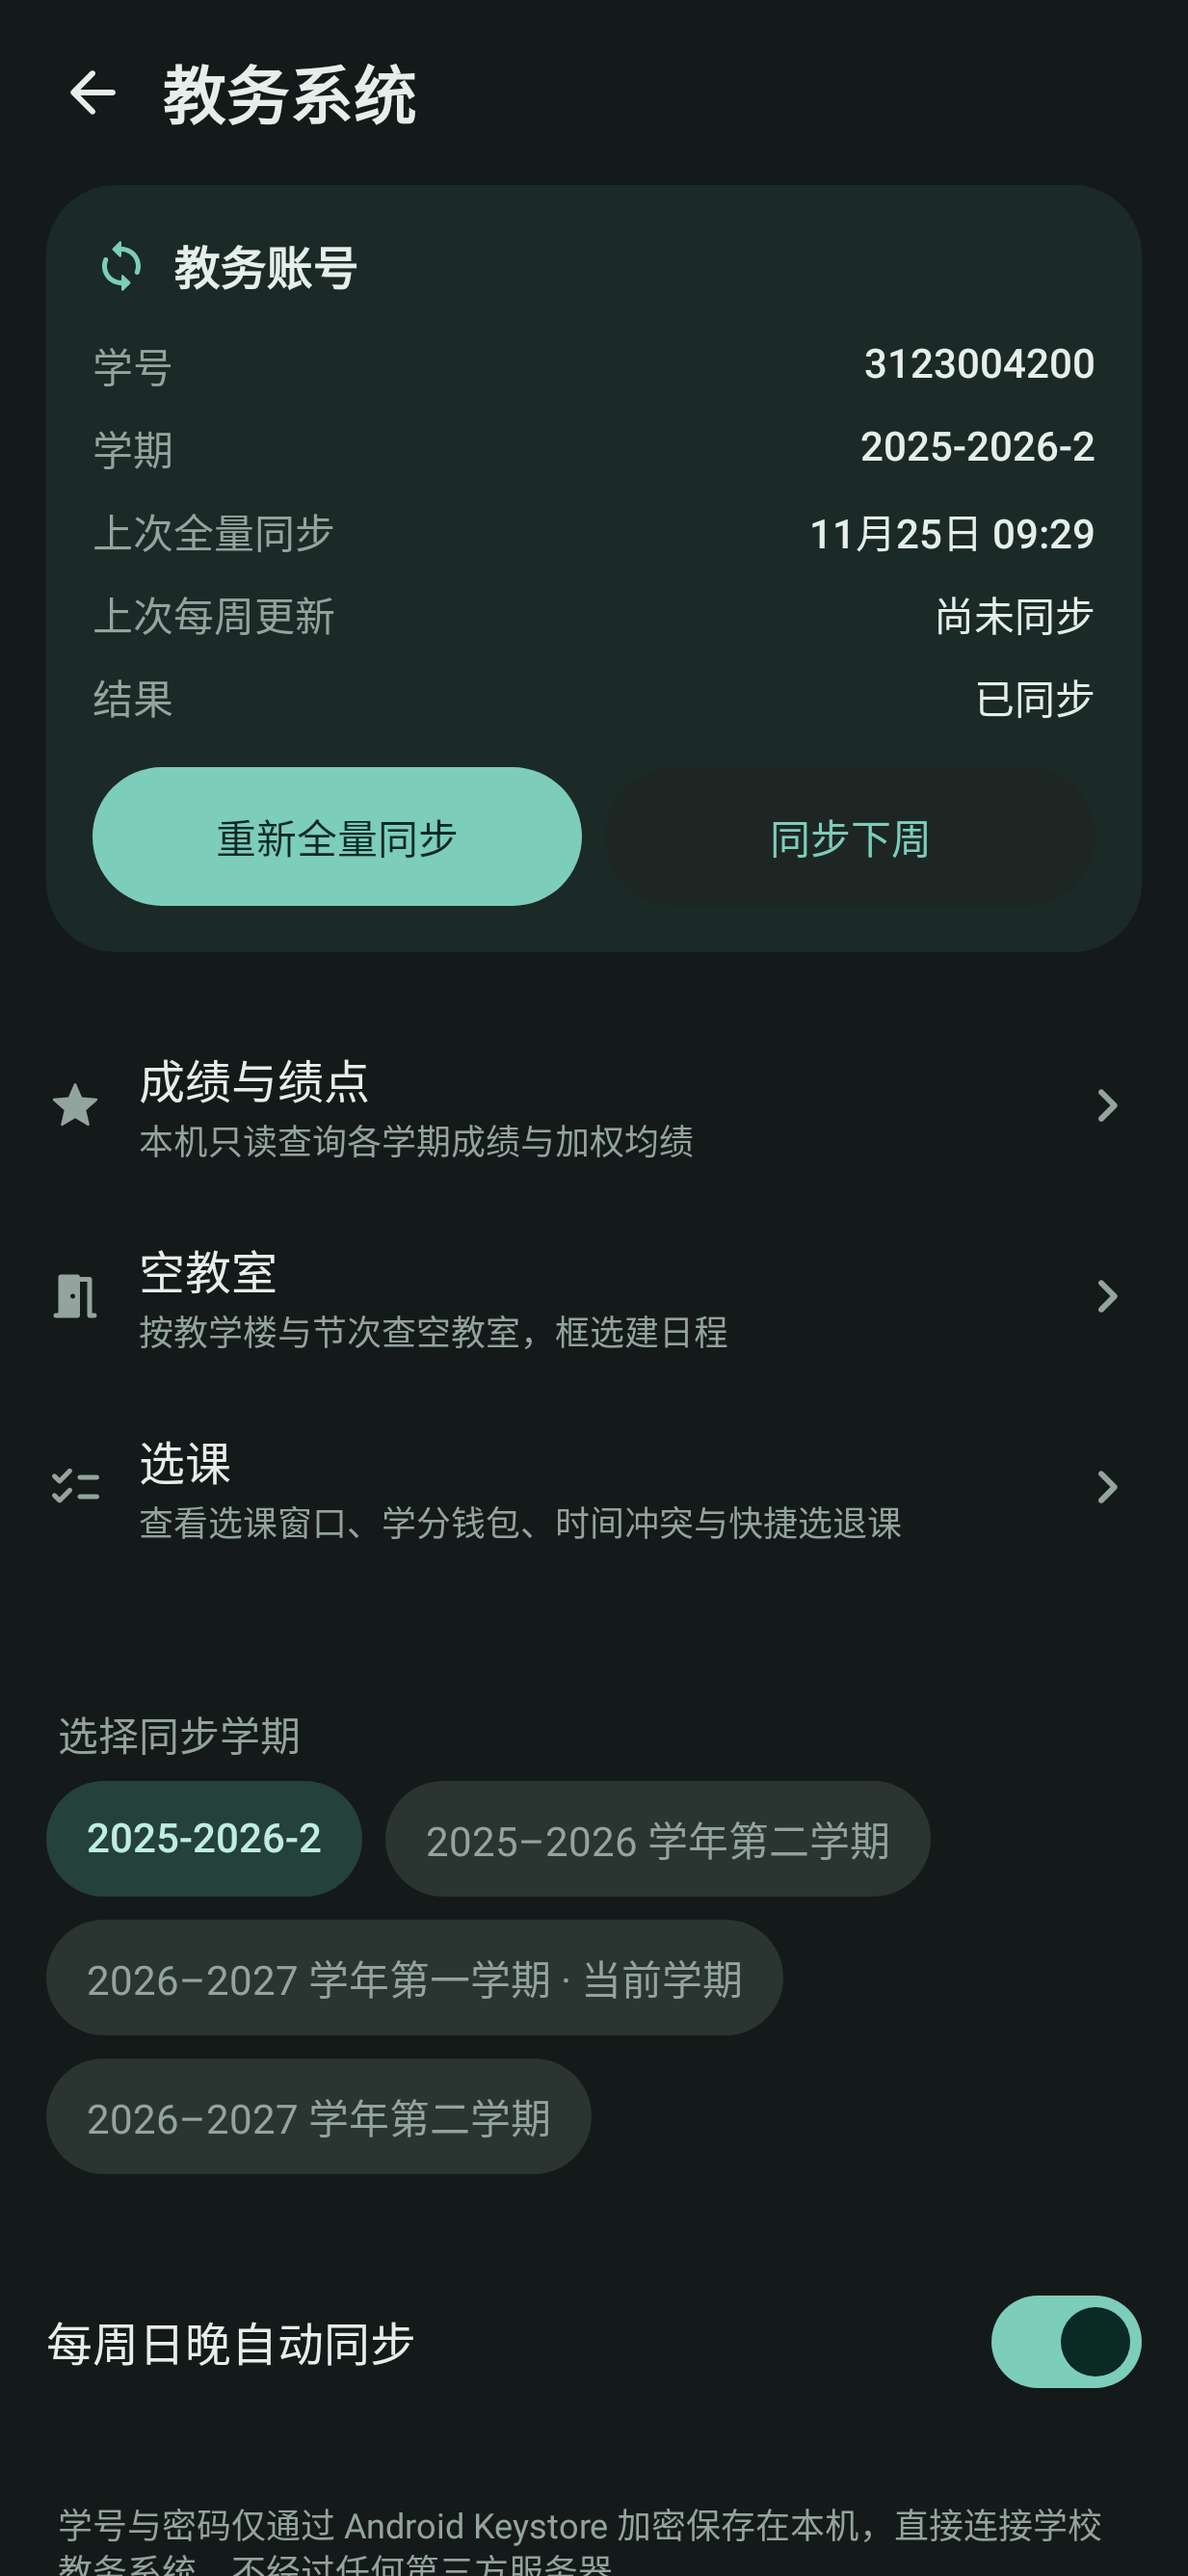
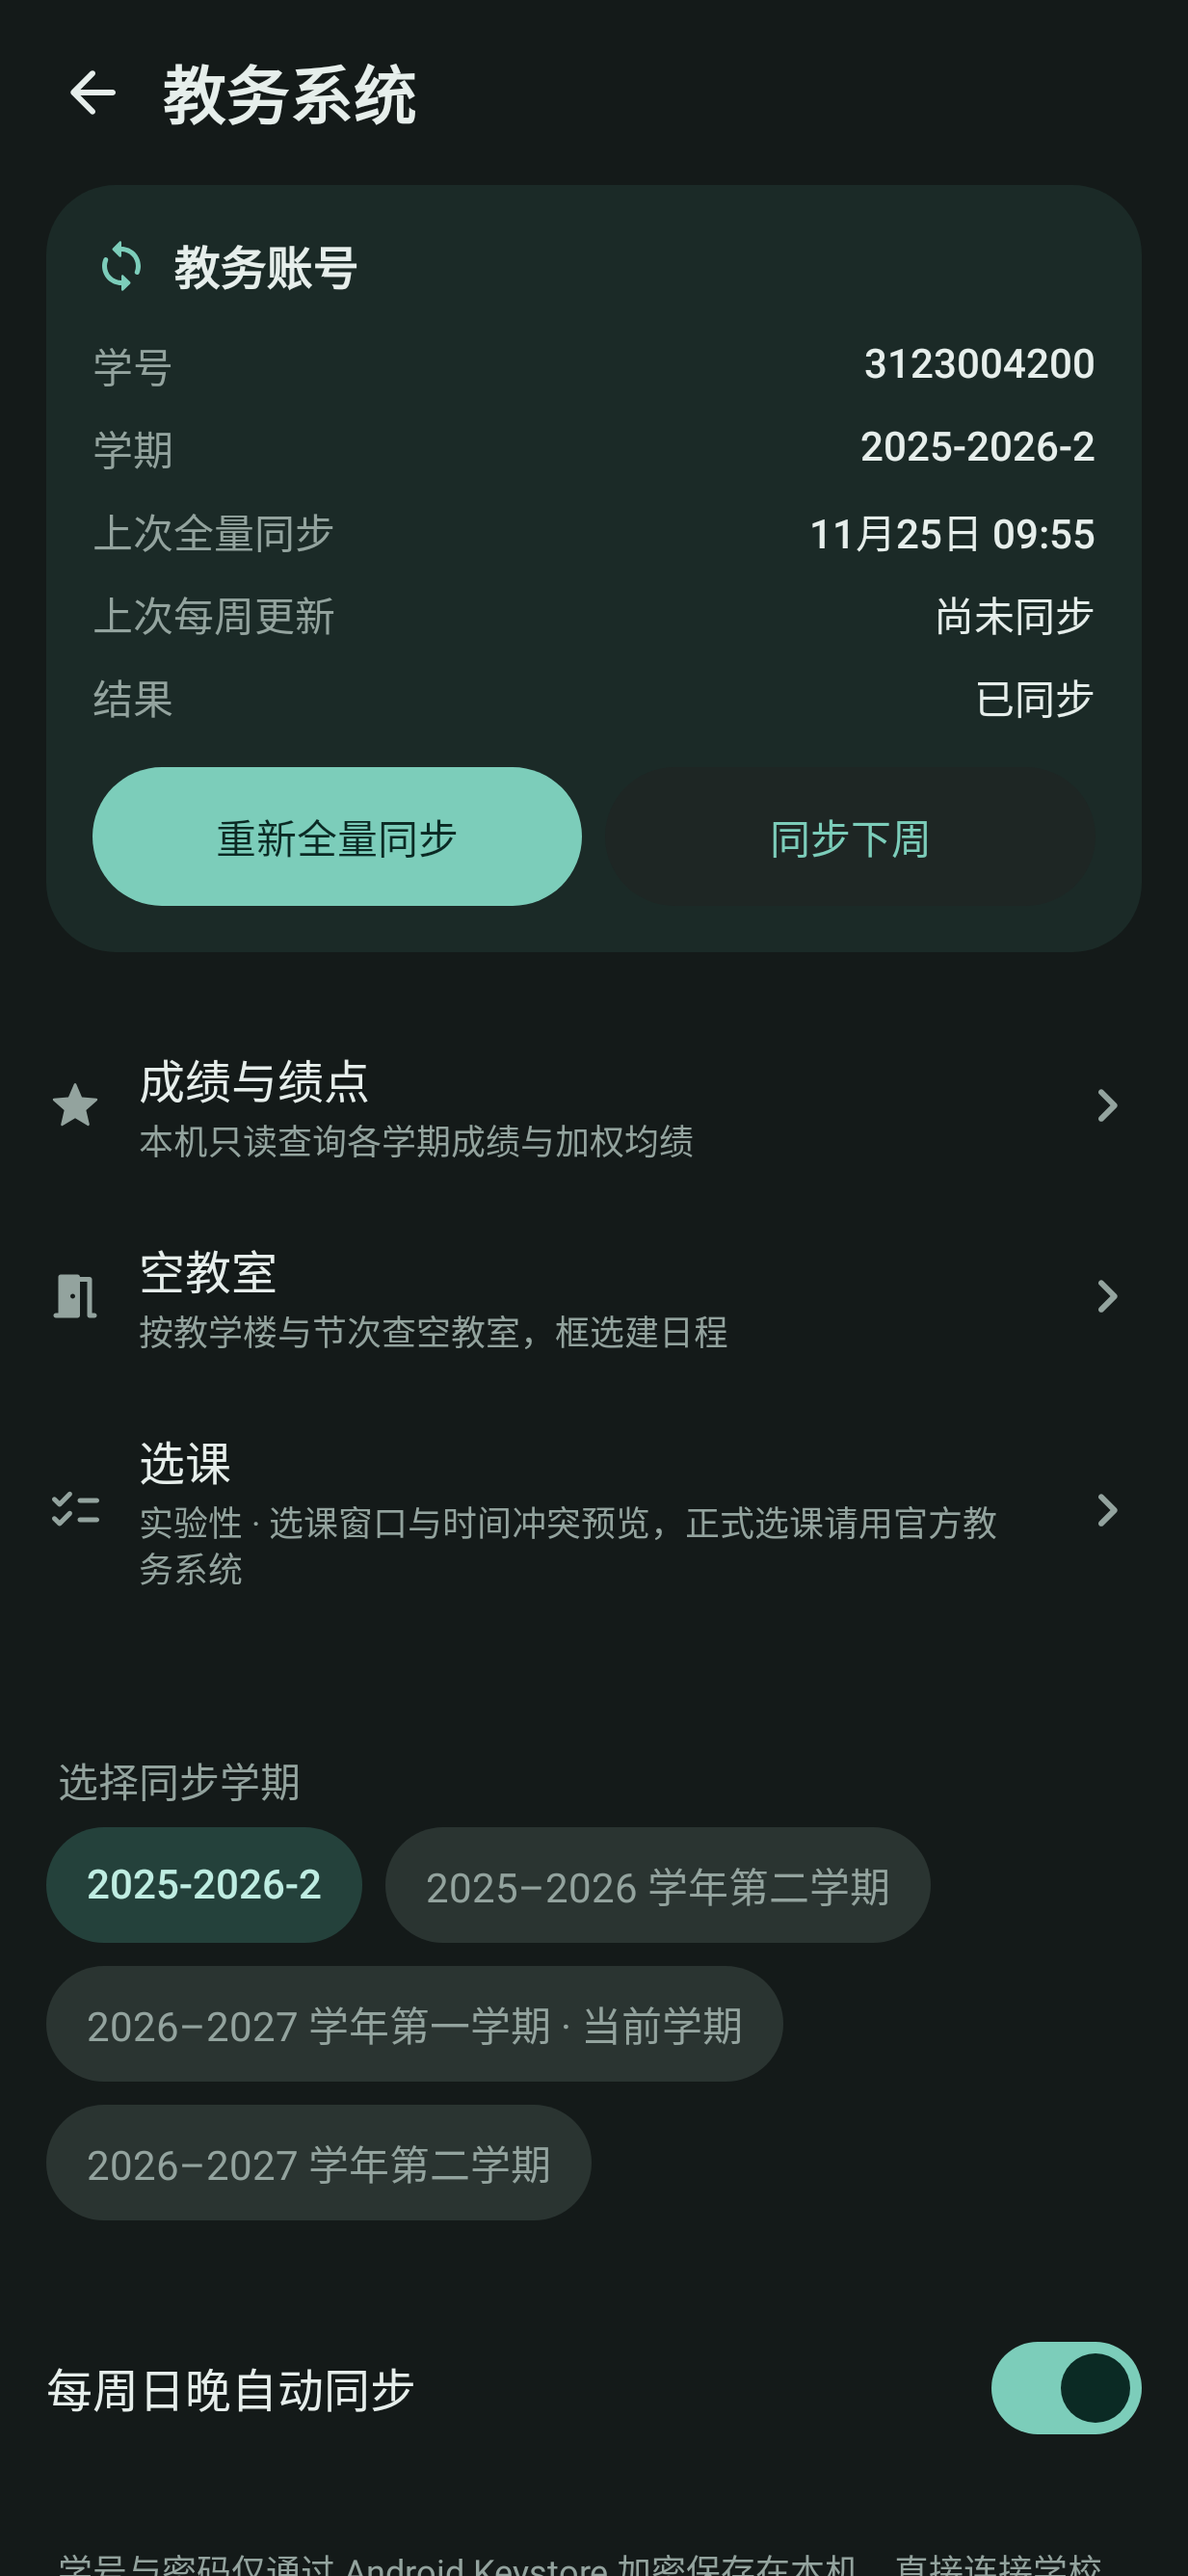
docs(landing): mark self-hosted sync WIP and add recent screen shots

diff --git a/landing/index.html b/landing/index.html
@@ -199,8 +199,8 @@
               <div class="feat-ic">
                 <svg viewBox="0 0 24 24" fill="none" stroke="currentColor" stroke-width="1.8" stroke-linecap="round" stroke-linejoin="round" aria-hidden="true"><path d="M9 11l3 3L22 4"/><path d="M21 12v7a2 2 0 0 1-2 2H5a2 2 0 0 1-2-2V5a2 2 0 0 1 2-2h11"/></svg>
               </div>
-              <h4>广工教务选课</h4>
-              <p>查看选课窗口与学分钱包，实时标记时间冲突并快捷选退课。</p>
+              <h4>广工教务选课（实验性）</h4>
+              <p>查看选课窗口与学分钱包，实时标记时间冲突并预览课表。</p>
             </article>
 
             <article class="feat-card feat-span-2" data-reveal>
@@ -268,10 +268,11 @@
       <div class="wrap">
         <div class="sec-head sec-head--split" data-reveal>
           <div>
-            <span class="sec-eyebrow sec-eyebrow--dark">多端</span>
+            <span class="sec-eyebrow sec-eyebrow--dark">多端 · 开发中</span>
             <h2 class="sec-title sec-title--dark">本地优先，自建同步</h2>
-            <p class="sec-desc sec-desc--dark">数据默认存本机，可按需部署 Go + SQLite 服务端，大屏浏览器直连与整库备份。</p>
+            <p class="sec-desc sec-desc--dark">开发中，敬请期待。数据默认存本机，后续将陆续完善自建 Go + SQLite 服务端同步、大屏浏览器直连与整库备份。</p>
           </div>
+          <span class="stage-hint stage-hint--dark mono">开发中 · 敬请期待</span>
         </div>
 
         <div class="obsidian-stage" data-reveal>
@@ -321,24 +322,24 @@
             <div class="feat-ic">
               <svg viewBox="0 0 24 24" fill="none" stroke="currentColor" stroke-width="1.8" stroke-linecap="round" stroke-linejoin="round" aria-hidden="true"><path d="M4 12a8 8 0 0 1 13.5-5.8L20 8"/><path d="M20 4v4h-4"/><path d="M20 12a8 8 0 0 1-13.5 5.8L4 16"/><path d="M4 20v-4h4"/></svg>
             </div>
-            <h4>自建增量同步</h4>
-            <p>单二进制 Go + SQLite 服务端，多端自动增量同步课表与待办。</p>
+            <h4>自建增量同步（开发中）</h4>
+            <p>开发中，敬请期待。未来通过单二进制 Go + SQLite 服务端，多端自动增量同步课表与待办。</p>
           </article>
 
           <article class="feat-card feat-card--dark" data-reveal data-delay="1">
             <div class="feat-ic">
               <svg viewBox="0 0 24 24" fill="none" stroke="currentColor" stroke-width="1.8" stroke-linecap="round" stroke-linejoin="round" aria-hidden="true"><rect x="3" y="4" width="18" height="12" rx="2"/><path d="M8 20h8M12 16v4"/></svg>
             </div>
-            <h4>原生 Web 端</h4>
-            <p>服务端内置零构建网页端，电脑大屏直连排课；手机局域网直连即将回归。</p>
+            <h4>原生 Web 端（开发中）</h4>
+            <p>开发中，敬请期待。未来支持电脑浏览器大屏排课与手机局域网直连管理。</p>
           </article>
 
           <article class="feat-card feat-card--dark" data-reveal data-delay="2">
             <div class="feat-ic">
               <svg viewBox="0 0 24 24" fill="none" stroke="currentColor" stroke-width="1.8" stroke-linecap="round" stroke-linejoin="round" aria-hidden="true"><path d="M8 9l-3 3 3 3M16 9l3 3-3 3M13 7l-2 10"/></svg>
             </div>
-            <h4>整库备份与导出</h4>
-            <p>支持每日自动 JSON 备份、导出课表图片与 <code>.ics</code>，并兼容服务端 MCP。</p>
+            <h4>整库备份与导出（可用）</h4>
+            <p>当前版本已支持每日自动 JSON 备份、一键导出课表图片与 <code>.ics</code> 日历文件。</p>
           </article>
         </div>
       </div>
@@ -389,10 +390,10 @@
             <figcaption>教室周课表</figcaption>
           </figure>
 
-          <figure class="shot-card" data-cat="gdut" data-title="广工选课" data-desc="查看选课窗口、学分钱包与时间冲突。" data-reveal>
-            <button type="button" class="shot-btn" aria-label="放大查看：广工选课">
+          <figure class="shot-card" data-cat="gdut" data-title="广工选课（EXP）" data-desc="查看选课窗口、学分钱包与个人课表冲突。" data-reveal>
+            <button type="button" class="shot-btn" aria-label="放大查看：广工选课（EXP）">
               <div class="shot-frame">
-                <img src="./assets/shot-course-selection.webp" data-light="./assets/shot-course-selection.webp" data-dark="./assets/shot-course-selection-dark.webp" width="1233" height="2673" alt="广工选课" loading="lazy">
+                <img src="./assets/shot-course-selection.webp" data-light="./assets/shot-course-selection.webp" data-dark="./assets/shot-course-selection-dark.webp" width="1233" height="2673" alt="广工选课（EXP）" loading="lazy">
               </div>
             </button>
             <figcaption>广工选课</figcaption>
@@ -443,6 +444,33 @@
             <figcaption>课表</figcaption>
           </figure>
 
+          <figure class="shot-card" data-cat="daily" data-title="课程详情" data-desc="按教学周高亮本周备注，直达编辑与调课。" data-reveal>
+            <button type="button" class="shot-btn" aria-label="放大查看：课程详情">
+              <div class="shot-frame">
+                <img src="./assets/shot-course-detail.webp" data-light="./assets/shot-course-detail.webp" data-dark="./assets/shot-course-detail-dark.webp" width="1233" height="2673" alt="课程详情" loading="lazy">
+              </div>
+            </button>
+            <figcaption>课程详情</figcaption>
+          </figure>
+
+          <figure class="shot-card" data-cat="daily" data-title="课表直接调课" data-desc="周视图内直接点选或拖动格子重排时段。" data-reveal>
+            <button type="button" class="shot-btn" aria-label="放大查看：课表直接调课">
+              <div class="shot-frame">
+                <img src="./assets/shot-course-reschedule.webp" data-light="./assets/shot-course-reschedule.webp" data-dark="./assets/shot-course-reschedule-dark.webp" width="1233" height="2673" alt="课表直接调课" loading="lazy">
+              </div>
+            </button>
+            <figcaption>课表调课</figcaption>
+          </figure>
+
+          <figure class="shot-card" data-cat="daily" data-title="课程与考试编辑" data-desc="普通课程与考试切换，支持多时段与自定义提醒。" data-reveal>
+            <button type="button" class="shot-btn" aria-label="放大查看：课程与考试编辑">
+              <div class="shot-frame">
+                <img src="./assets/shot-course-edit.webp" data-light="./assets/shot-course-edit.webp" data-dark="./assets/shot-course-edit-dark.webp" width="1233" height="2673" alt="课程与考试编辑" loading="lazy">
+              </div>
+            </button>
+            <figcaption>课程与考试</figcaption>
+          </figure>
+
           <figure class="shot-card" data-cat="daily" data-title="日历" data-desc="教学周对照与考试日期标记。" data-reveal>
             <button type="button" class="shot-btn" aria-label="放大查看：日历">
               <div class="shot-frame">
@@ -459,6 +487,15 @@
               </div>
             </button>
             <figcaption>待办</figcaption>
+          </figure>
+
+          <figure class="shot-card" data-cat="daily" data-title="待办图片网格" data-desc="多列图片网格排版与文件附件，点按全屏预览。" data-reveal>
+            <button type="button" class="shot-btn" aria-label="放大查看：待办图片网格">
+              <div class="shot-frame">
+                <img src="./assets/shot-todo-attachments.webp" data-light="./assets/shot-todo-attachments.webp" data-dark="./assets/shot-todo-attachments-dark.webp" width="1233" height="2673" alt="待办图片网格" loading="lazy">
+              </div>
+            </button>
+            <figcaption>待办图片网格</figcaption>
           </figure>
 
           <figure class="shot-card" data-cat="daily" data-title="桌面小组件" data-desc="5 款桌面微件，支持直接勾选。" data-reveal>

diff --git a/landing/styles.css b/landing/styles.css
@@ -308,6 +308,11 @@ code {
   padding: 5px 12px; border-radius: var(--radius-pill);
   background: rgba(255, 255, 255, 0.72); border: 1px solid rgba(46, 119, 108, 0.18);
 }
+.stage-hint--dark {
+  color: var(--mint-glow);
+  background: rgba(46, 119, 108, 0.22);
+  border-color: rgba(127, 227, 206, 0.28);
+}
 
 /* 5 Native Desktop Widgets Matrix */
 .widget-matrix {
